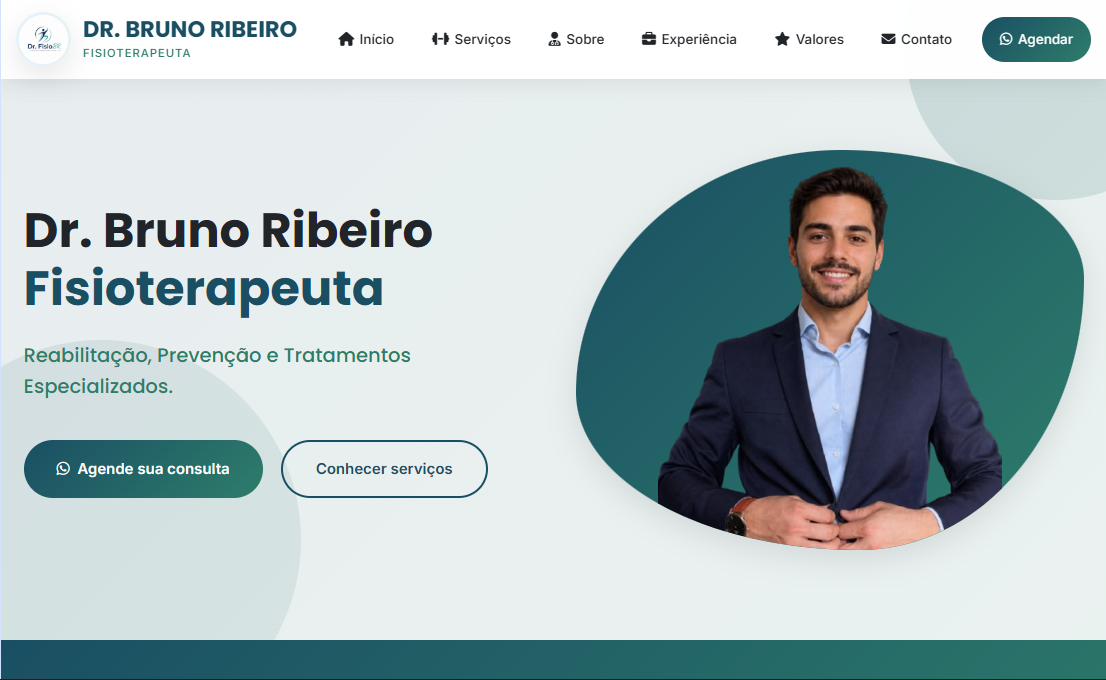
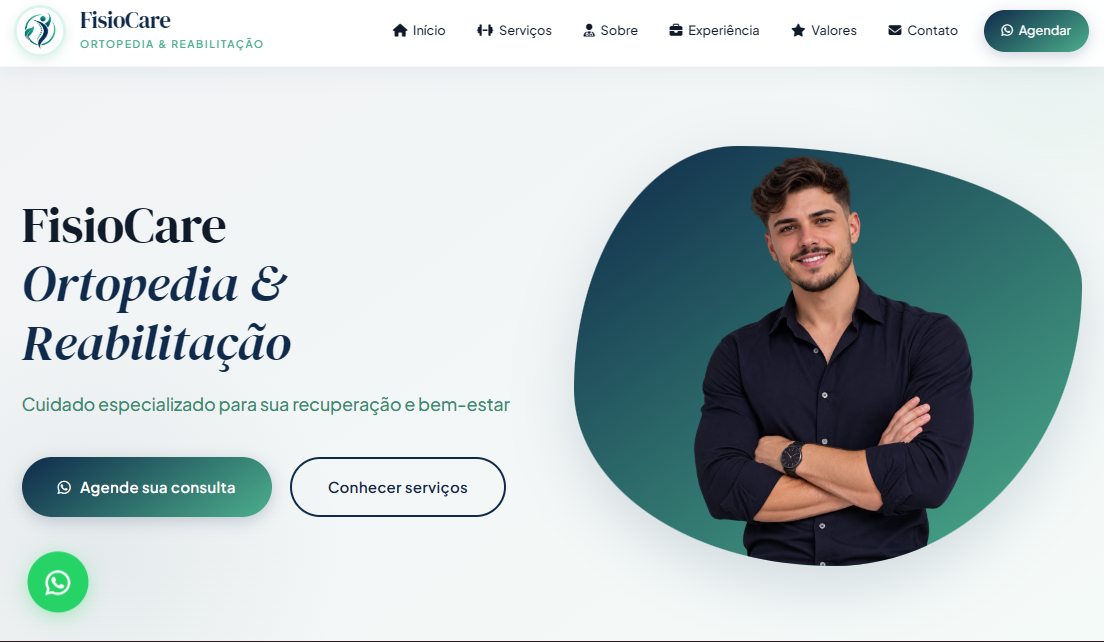
update

diff --git a/meu-site/src/components/Showcase/Showcase.tsx b/meu-site/src/components/Showcase/Showcase.tsx
@@ -71,7 +71,7 @@ export function Showcase() {
       categoryKey: 'cat_health',
       titleKey: 'project_4_name',
       descKey: 'project_4_desc',
-      link: 'https://pablog-7.github.io/projeto-drbruno/'
+      link: 'https://pablog-7.github.io/fisio-site-exemplo/'
     },
     {
       image: '/images/exemplo5.webp',
